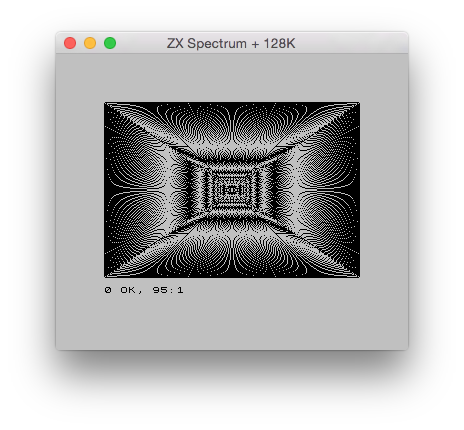
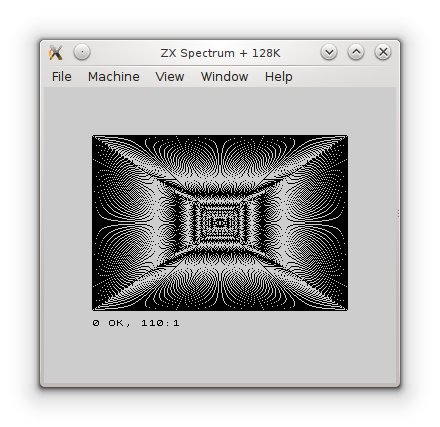
Qt port is "working" now.

diff --git a/sources/Qt/GLOutputView.cpp b/sources/Qt/GLOutputView.cpp
@@ -70,6 +70,13 @@ GLOutputView::GLOutputView(QWidget *parent) : QGLWidget(parent)
 	flags.OpenGLReady	= false;
 	flags.startWhenPossible = false;
 	//setAttribute(Qt::WA_PaintOutsidePaintEvent, true);
+
+	GLContext = (QGLContext *)context();
+
+	makeCurrent();
+	C::gl_output_initialize(&GLOutput);
+	C::gl_output_set_geometry(&GLOutput, BOUNDS, Q_SCALING_FIT);
+	doneCurrent();
 	qDebug("GLOutputView::constructor");
 	}
 
@@ -94,9 +101,8 @@ void GLOutputView::initializeGL()
 //	QGLFormat format(QGL::SampleBuffers);
 //	format.setSwapInterval(1); // vsync
 //	setFormat(format);
-	C::gl_output_initialize(&GLOutput);
-	C::gl_output_set_geometry(&GLOutput, BOUNDS, Q_SCALING_FIT);
-	GLContext = (QGLContext *)context();
+
+
 	flags.OpenGLReady = TRUE;
 	if (flags.startWhenPossible) this->start();
 	}

diff --git a/sources/Qt/MachineWindow.cpp b/sources/Qt/MachineWindow.cpp
@@ -112,6 +112,7 @@ MachineWindow::MachineWindow(QWidget *parent) :	QMainWindow(parent), ui(new Ui::
 		}
 
 	keyboardState.value_uint64 = Q_UINT64(0xFFFFFFFFFFFFFFFF);
+	setWindowTitle(QString(abi->model_name));
 	}
 
 
